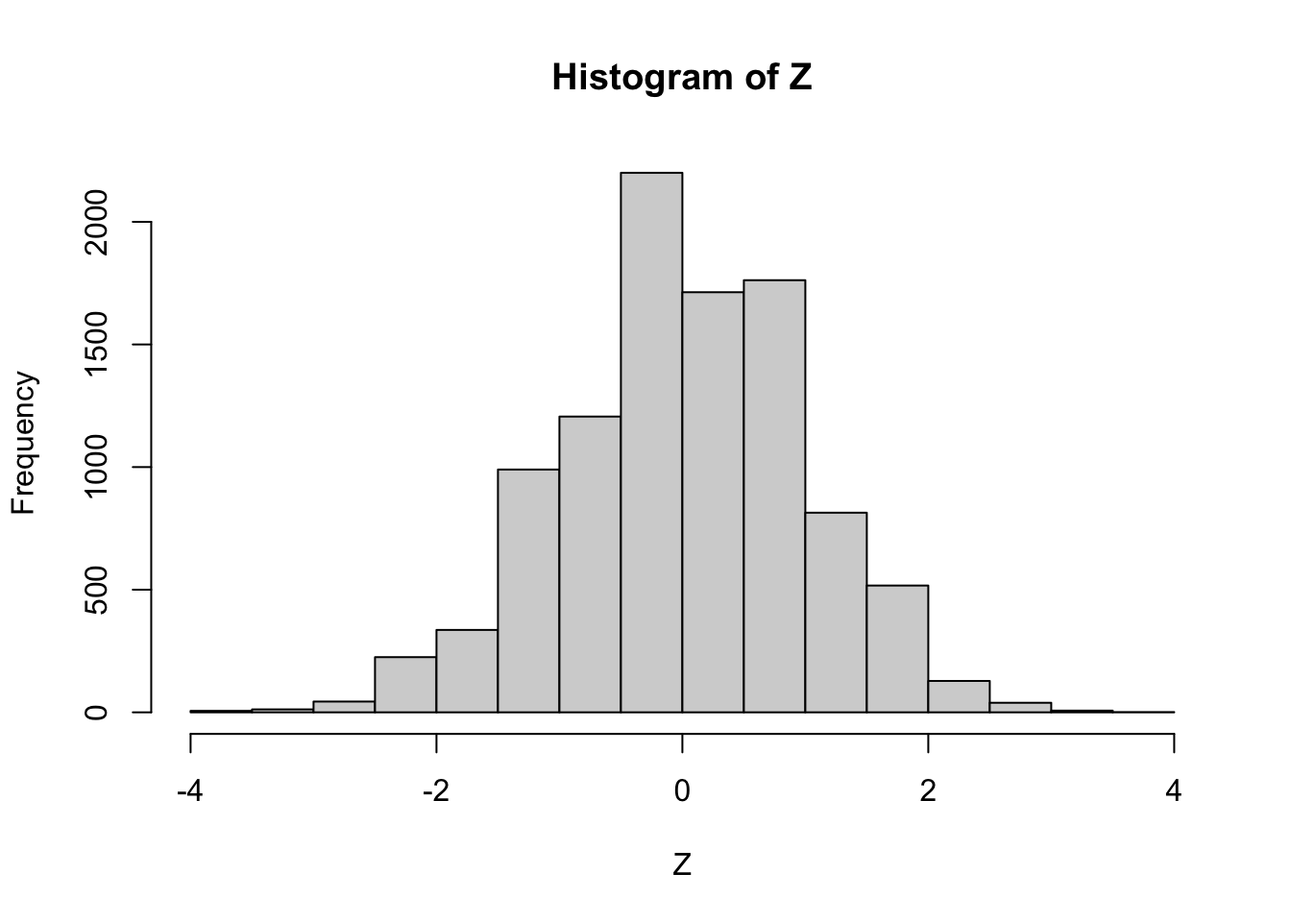
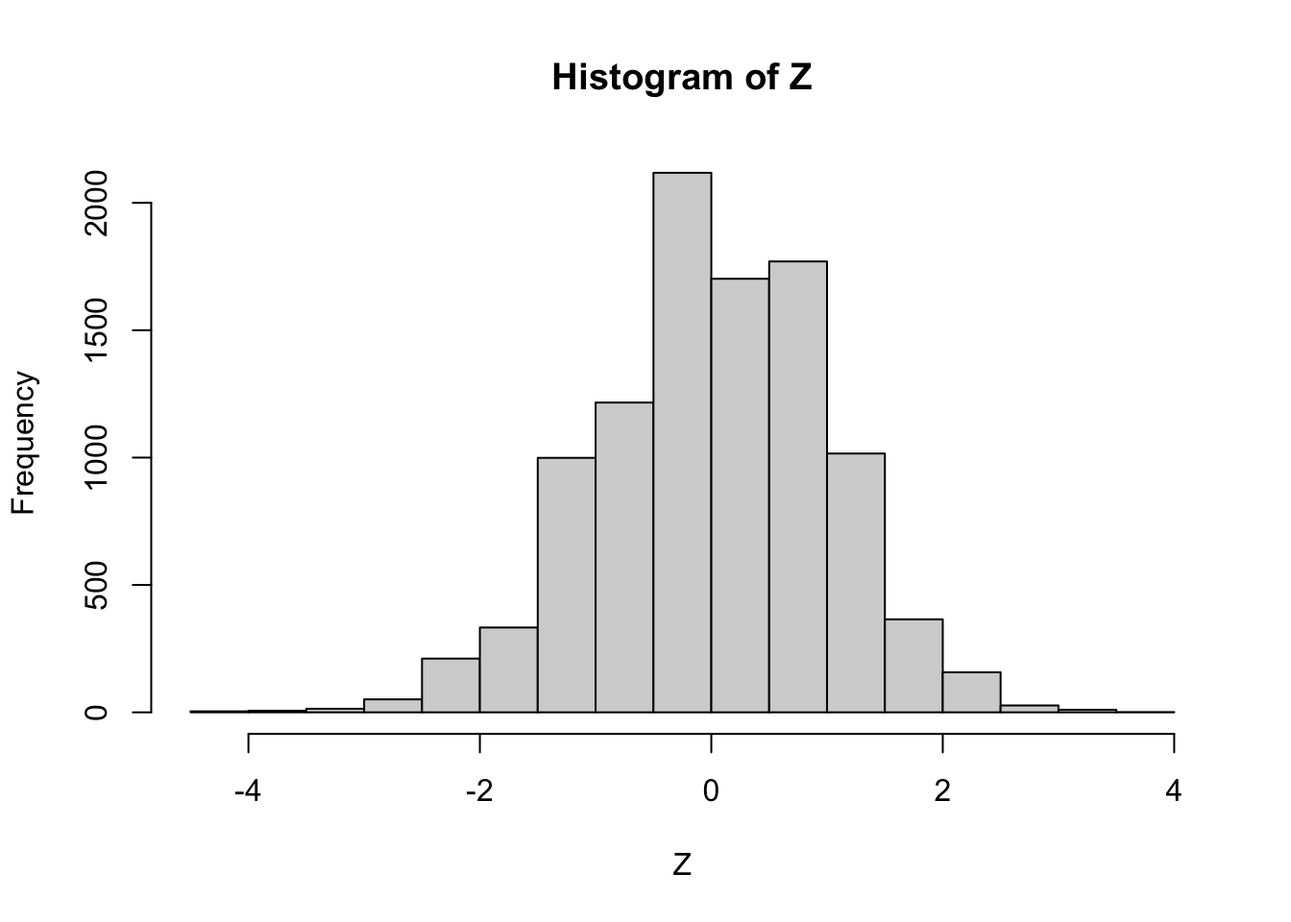
pset5

diff --git a/p5/pset-05-prob.html b/p5/pset-05-prob.html
@@ -181,14 +181,10 @@ window.Quarto = {
 <span id="cb4-7"><a href="#cb4-7" aria-hidden="true" tabindex="-1"></a>      same <span class="ot">=</span> same <span class="sc">+</span> <span class="dv">1</span></span>
 <span id="cb4-8"><a href="#cb4-8" aria-hidden="true" tabindex="-1"></a>    }</span>
 <span id="cb4-9"><a href="#cb4-9" aria-hidden="true" tabindex="-1"></a>  }</span>
-<span id="cb4-10"><a href="#cb4-10" aria-hidden="true" tabindex="-1"></a>  </span>
-<span id="cb4-11"><a href="#cb4-11" aria-hidden="true" tabindex="-1"></a>  chance <span class="ot">=</span> same<span class="sc">/</span>B</span>
-<span id="cb4-12"><a href="#cb4-12" aria-hidden="true" tabindex="-1"></a>  </span>
-<span id="cb4-13"><a href="#cb4-13" aria-hidden="true" tabindex="-1"></a>  <span class="fu">return</span>(chance)</span>
-<span id="cb4-14"><a href="#cb4-14" aria-hidden="true" tabindex="-1"></a>} </span>
-<span id="cb4-15"><a href="#cb4-15" aria-hidden="true" tabindex="-1"></a></span>
-<span id="cb4-16"><a href="#cb4-16" aria-hidden="true" tabindex="-1"></a></span>
-<span id="cb4-17"><a href="#cb4-17" aria-hidden="true" tabindex="-1"></a><span class="fu">compute_prob</span>(<span class="dv">22</span>)</span></code><button title="Copy to Clipboard" class="code-copy-button"><i class="bi"></i></button></pre></div>
+<span id="cb4-10"><a href="#cb4-10" aria-hidden="true" tabindex="-1"></a>  chance <span class="ot">=</span> same<span class="sc">/</span>B</span>
+<span id="cb4-11"><a href="#cb4-11" aria-hidden="true" tabindex="-1"></a>  <span class="fu">return</span>(chance)</span>
+<span id="cb4-12"><a href="#cb4-12" aria-hidden="true" tabindex="-1"></a>} </span>
+<span id="cb4-13"><a href="#cb4-13" aria-hidden="true" tabindex="-1"></a><span class="fu">compute_prob</span>(<span class="dv">22</span>)</span></code><button title="Copy to Clipboard" class="code-copy-button"><i class="bi"></i></button></pre></div>
 <div class="cell-output cell-output-stdout">
 <pre><code>[1] 0.513</code></pre>
 </div>
@@ -239,25 +235,21 @@ window.Quarto = {
 </figure>
 </div>
 </div>
-<div class="sourceCode cell-code" id="cb9"><pre class="sourceCode r code-with-copy"><code class="sourceCode r"><span id="cb9-1"><a href="#cb9-1" aria-hidden="true" tabindex="-1"></a><span class="co"># exact_prob &lt;- function(n){</span></span>
-<span id="cb9-2"><a href="#cb9-2" aria-hidden="true" tabindex="-1"></a><span class="co">#   prob_unique &lt;- seq(365, 365 - n + 1)/365 </span></span>
-<span id="cb9-3"><a href="#cb9-3" aria-hidden="true" tabindex="-1"></a><span class="co">#   1 - prod( prob_unique)</span></span>
-<span id="cb9-4"><a href="#cb9-4" aria-hidden="true" tabindex="-1"></a><span class="co"># }</span></span></code><button title="Copy to Clipboard" class="code-copy-button"><i class="bi"></i></button></pre></div>
 </div>
 <ol start="5" type="1">
 <li>Note that the points don’t quite match the red line. This is because our Monte Carlos simulation was based on only 1,000 iterations. Repeat exercise 2 but for <code>n = 23</code> and try <code>B &lt;- seq(10, 250, 5)^2</code> number iterations. Plot the estimated probability against <code>sqrt(b)</code>. Add horizontal lines around the exact probability <span class="math inline">\(\pm\)</span> 0.005. Note this could take several seconds to run. Set the seed to 1998.</li>
 </ol>
 <div class="cell">
-<div class="sourceCode cell-code" id="cb10"><pre class="sourceCode r code-with-copy"><code class="sourceCode r"><span id="cb10-1"><a href="#cb10-1" aria-hidden="true" tabindex="-1"></a><span class="fu">set.seed</span>(<span class="dv">1998</span>)</span>
-<span id="cb10-2"><a href="#cb10-2" aria-hidden="true" tabindex="-1"></a>B <span class="ot">&lt;-</span> <span class="fu">seq</span>(<span class="dv">10</span>, <span class="dv">250</span>, <span class="dv">5</span>)<span class="sc">^</span><span class="dv">2</span></span>
-<span id="cb10-3"><a href="#cb10-3" aria-hidden="true" tabindex="-1"></a></span>
-<span id="cb10-4"><a href="#cb10-4" aria-hidden="true" tabindex="-1"></a>compute_prob <span class="ot">&lt;-</span> <span class="cf">function</span>(B, <span class="at">n =</span> <span class="dv">23</span>){</span>
-<span id="cb10-5"><a href="#cb10-5" aria-hidden="true" tabindex="-1"></a>  same_day <span class="ot">&lt;-</span> <span class="fu">replicate</span>(B, <span class="fu">same_birthday</span>(n))</span>
-<span id="cb10-6"><a href="#cb10-6" aria-hidden="true" tabindex="-1"></a>  <span class="fu">mean</span>(same_day)</span>
-<span id="cb10-7"><a href="#cb10-7" aria-hidden="true" tabindex="-1"></a>}</span>
-<span id="cb10-8"><a href="#cb10-8" aria-hidden="true" tabindex="-1"></a>prob <span class="ot">&lt;-</span> <span class="fu">sapply</span>(B, compute_prob)</span>
-<span id="cb10-9"><a href="#cb10-9" aria-hidden="true" tabindex="-1"></a><span class="fu">plot</span>(<span class="fu">sqrt</span>(B), prob)</span>
-<span id="cb10-10"><a href="#cb10-10" aria-hidden="true" tabindex="-1"></a><span class="fu">abline</span>(<span class="at">h =</span> <span class="fu">mean</span>(prob) <span class="sc">+</span> <span class="fu">c</span>(<span class="sc">-</span><span class="fl">0.005</span>, <span class="fl">0.005</span>), <span class="at">col =</span> <span class="st">"red"</span>)</span></code><button title="Copy to Clipboard" class="code-copy-button"><i class="bi"></i></button></pre></div>
+<div class="sourceCode cell-code" id="cb9"><pre class="sourceCode r code-with-copy"><code class="sourceCode r"><span id="cb9-1"><a href="#cb9-1" aria-hidden="true" tabindex="-1"></a><span class="fu">set.seed</span>(<span class="dv">1998</span>)</span>
+<span id="cb9-2"><a href="#cb9-2" aria-hidden="true" tabindex="-1"></a>B <span class="ot">&lt;-</span> <span class="fu">seq</span>(<span class="dv">10</span>, <span class="dv">250</span>, <span class="dv">5</span>)<span class="sc">^</span><span class="dv">2</span></span>
+<span id="cb9-3"><a href="#cb9-3" aria-hidden="true" tabindex="-1"></a></span>
+<span id="cb9-4"><a href="#cb9-4" aria-hidden="true" tabindex="-1"></a>compute_prob_val <span class="ot">&lt;-</span> <span class="cf">function</span>(B, <span class="at">n =</span> <span class="dv">23</span>){</span>
+<span id="cb9-5"><a href="#cb9-5" aria-hidden="true" tabindex="-1"></a>  same_day <span class="ot">&lt;-</span> <span class="fu">replicate</span>(B, <span class="fu">same_birthday</span>(n))</span>
+<span id="cb9-6"><a href="#cb9-6" aria-hidden="true" tabindex="-1"></a>  <span class="fu">mean</span>(same_day)</span>
+<span id="cb9-7"><a href="#cb9-7" aria-hidden="true" tabindex="-1"></a>}</span>
+<span id="cb9-8"><a href="#cb9-8" aria-hidden="true" tabindex="-1"></a>prob <span class="ot">&lt;-</span> <span class="fu">sapply</span>(B, compute_prob_val)</span>
+<span id="cb9-9"><a href="#cb9-9" aria-hidden="true" tabindex="-1"></a><span class="fu">plot</span>(<span class="fu">sqrt</span>(B), prob)</span>
+<span id="cb9-10"><a href="#cb9-10" aria-hidden="true" tabindex="-1"></a><span class="fu">abline</span>(<span class="at">h =</span> <span class="fu">mean</span>(prob) <span class="sc">+</span> <span class="fu">c</span>(<span class="sc">-</span><span class="fl">0.005</span>, <span class="fl">0.005</span>), <span class="at">col =</span> <span class="st">"red"</span>)</span></code><button title="Copy to Clipboard" class="code-copy-button"><i class="bi"></i></button></pre></div>
 <div class="cell-output-display">
 <div>
 <figure class="figure">
@@ -267,76 +259,45 @@ window.Quarto = {
 </div>
 </div>
 <p>Describe when it starts to stabilize in that the estimates are within 0.005 for the exact probability.</p>
-<p>In this plot, we can see that the values start to stabilize at around sqrt(B) at 150.</p>
+<p>In this plot, we can see that the values start to stabilize at around sqrt(B) at 220, and we can use 45000 to be our result for question six.</p>
 <ol start="6" type="1">
 <li>Repeat exercise 4 but use the results of exercise 5 to select the number of iterations so that the points practically fall on the red curve.</li>
 </ol>
 <p>Hint: If the number of iterations you chose is too large, you will achieve the correct plot but your document might not render in less than five minutes.</p>
 <div class="cell">
-<div class="sourceCode cell-code" id="cb11"><pre class="sourceCode r code-with-copy"><code class="sourceCode r"><span id="cb11-1"><a href="#cb11-1" aria-hidden="true" tabindex="-1"></a><span class="co"># library(tidyverse)</span></span>
-<span id="cb11-2"><a href="#cb11-2" aria-hidden="true" tabindex="-1"></a><span class="co"># set.seed(1998)</span></span>
-<span id="cb11-3"><a href="#cb11-3" aria-hidden="true" tabindex="-1"></a><span class="co"># n_6 &lt;- seq(1, 50)</span></span>
-<span id="cb11-4"><a href="#cb11-4" aria-hidden="true" tabindex="-1"></a><span class="co"># B &lt;- seq(10, 250, 5)^2</span></span>
-<span id="cb11-5"><a href="#cb11-5" aria-hidden="true" tabindex="-1"></a><span class="co"># </span></span>
-<span id="cb11-6"><a href="#cb11-6" aria-hidden="true" tabindex="-1"></a><span class="co"># exact_prob &lt;- function(n_6){ </span></span>
-<span id="cb11-7"><a href="#cb11-7" aria-hidden="true" tabindex="-1"></a><span class="co">#  prob = prod(364:(365 - n_6 +1)/ 365)</span></span>
-<span id="cb11-8"><a href="#cb11-8" aria-hidden="true" tabindex="-1"></a><span class="co">#  prob = 1- prob</span></span>
-<span id="cb11-9"><a href="#cb11-9" aria-hidden="true" tabindex="-1"></a><span class="co">#  return(prob)</span></span>
-<span id="cb11-10"><a href="#cb11-10" aria-hidden="true" tabindex="-1"></a><span class="co"># }</span></span>
-<span id="cb11-11"><a href="#cb11-11" aria-hidden="true" tabindex="-1"></a><span class="co"># </span></span>
-<span id="cb11-12"><a href="#cb11-12" aria-hidden="true" tabindex="-1"></a><span class="co"># compute_prob &lt;- function(B, n = 23){</span></span>
-<span id="cb11-13"><a href="#cb11-13" aria-hidden="true" tabindex="-1"></a><span class="co">#   same_day &lt;- replicate(B, same_birthday(n))</span></span>
-<span id="cb11-14"><a href="#cb11-14" aria-hidden="true" tabindex="-1"></a><span class="co">#   mean(same_day)</span></span>
-<span id="cb11-15"><a href="#cb11-15" aria-hidden="true" tabindex="-1"></a><span class="co"># }</span></span>
-<span id="cb11-16"><a href="#cb11-16" aria-hidden="true" tabindex="-1"></a><span class="co"># </span></span>
-<span id="cb11-17"><a href="#cb11-17" aria-hidden="true" tabindex="-1"></a><span class="co"># prob &lt;- sapply(B, compute_prob)</span></span>
-<span id="cb11-18"><a href="#cb11-18" aria-hidden="true" tabindex="-1"></a><span class="co"># </span></span>
-<span id="cb11-19"><a href="#cb11-19" aria-hidden="true" tabindex="-1"></a><span class="co"># exact_prob &lt;- sapply(n_6, exact_prob)</span></span>
-<span id="cb11-20"><a href="#cb11-20" aria-hidden="true" tabindex="-1"></a><span class="co"># </span></span>
-<span id="cb11-21"><a href="#cb11-21" aria-hidden="true" tabindex="-1"></a><span class="co"># </span></span>
-<span id="cb11-22"><a href="#cb11-22" aria-hidden="true" tabindex="-1"></a><span class="co"># plot(sqrt(B), prob)</span></span>
-<span id="cb11-23"><a href="#cb11-23" aria-hidden="true" tabindex="-1"></a><span class="co"># lines(n_6, exact_prob, col = "red")</span></span>
-<span id="cb11-24"><a href="#cb11-24" aria-hidden="true" tabindex="-1"></a></span>
-<span id="cb11-25"><a href="#cb11-25" aria-hidden="true" tabindex="-1"></a></span>
-<span id="cb11-26"><a href="#cb11-26" aria-hidden="true" tabindex="-1"></a></span>
-<span id="cb11-27"><a href="#cb11-27" aria-hidden="true" tabindex="-1"></a><span class="fu">library</span>(tidyverse)</span>
-<span id="cb11-28"><a href="#cb11-28" aria-hidden="true" tabindex="-1"></a></span>
-<span id="cb11-29"><a href="#cb11-29" aria-hidden="true" tabindex="-1"></a><span class="fu">set.seed</span>(<span class="dv">1998</span>)</span>
-<span id="cb11-30"><a href="#cb11-30" aria-hidden="true" tabindex="-1"></a></span>
-<span id="cb11-31"><a href="#cb11-31" aria-hidden="true" tabindex="-1"></a><span class="co"># Define the range of n</span></span>
-<span id="cb11-32"><a href="#cb11-32" aria-hidden="true" tabindex="-1"></a>n <span class="ot">&lt;-</span> <span class="fu">seq</span>(<span class="dv">1</span>, <span class="dv">50</span>)</span>
-<span id="cb11-33"><a href="#cb11-33" aria-hidden="true" tabindex="-1"></a></span>
-<span id="cb11-34"><a href="#cb11-34" aria-hidden="true" tabindex="-1"></a><span class="co"># Exact probability function</span></span>
-<span id="cb11-35"><a href="#cb11-35" aria-hidden="true" tabindex="-1"></a>exact_prob <span class="ot">&lt;-</span> <span class="cf">function</span>(n) { </span>
-<span id="cb11-36"><a href="#cb11-36" aria-hidden="true" tabindex="-1"></a>  prob <span class="ot">=</span> <span class="fu">prod</span>(<span class="dv">364</span><span class="sc">:</span>(<span class="dv">365</span> <span class="sc">-</span> n <span class="sc">+</span> <span class="dv">1</span>) <span class="sc">/</span> <span class="dv">365</span>)</span>
-<span id="cb11-37"><a href="#cb11-37" aria-hidden="true" tabindex="-1"></a>  prob <span class="ot">=</span> <span class="dv">1</span> <span class="sc">-</span> prob</span>
-<span id="cb11-38"><a href="#cb11-38" aria-hidden="true" tabindex="-1"></a>  <span class="fu">return</span>(prob)</span>
-<span id="cb11-39"><a href="#cb11-39" aria-hidden="true" tabindex="-1"></a>}</span>
-<span id="cb11-40"><a href="#cb11-40" aria-hidden="true" tabindex="-1"></a></span>
-<span id="cb11-41"><a href="#cb11-41" aria-hidden="true" tabindex="-1"></a>exact_prob <span class="ot">&lt;-</span> <span class="fu">sapply</span>(n, exact_prob)</span>
-<span id="cb11-42"><a href="#cb11-42" aria-hidden="true" tabindex="-1"></a></span>
-<span id="cb11-43"><a href="#cb11-43" aria-hidden="true" tabindex="-1"></a><span class="co"># Exercise 5: Find stable B</span></span>
-<span id="cb11-44"><a href="#cb11-44" aria-hidden="true" tabindex="-1"></a>B_vals <span class="ot">&lt;-</span> <span class="fu">seq</span>(<span class="dv">10</span>, <span class="dv">250</span>, <span class="dv">5</span>)<span class="sc">^</span><span class="dv">2</span></span>
-<span id="cb11-45"><a href="#cb11-45" aria-hidden="true" tabindex="-1"></a>compute_prob <span class="ot">&lt;-</span> <span class="cf">function</span>(B, <span class="at">n =</span> <span class="dv">23</span>) {</span>
-<span id="cb11-46"><a href="#cb11-46" aria-hidden="true" tabindex="-1"></a>  same_day <span class="ot">&lt;-</span> <span class="fu">replicate</span>(B, <span class="fu">same_birthday</span>(n))</span>
-<span id="cb11-47"><a href="#cb11-47" aria-hidden="true" tabindex="-1"></a>  <span class="fu">mean</span>(same_day)</span>
-<span id="cb11-48"><a href="#cb11-48" aria-hidden="true" tabindex="-1"></a>}</span>
-<span id="cb11-49"><a href="#cb11-49" aria-hidden="true" tabindex="-1"></a></span>
-<span id="cb11-50"><a href="#cb11-50" aria-hidden="true" tabindex="-1"></a>prob <span class="ot">&lt;-</span> <span class="fu">sapply</span>(B_vals, compute_prob)</span>
-<span id="cb11-51"><a href="#cb11-51" aria-hidden="true" tabindex="-1"></a></span>
-<span id="cb11-52"><a href="#cb11-52" aria-hidden="true" tabindex="-1"></a><span class="co"># Find the smallest B where probability is stable within ±0.005</span></span>
-<span id="cb11-53"><a href="#cb11-53" aria-hidden="true" tabindex="-1"></a>stable_B <span class="ot">&lt;-</span> B_vals[<span class="fu">which.max</span>(prob <span class="sc">&gt;=</span> (<span class="fu">mean</span>(prob) <span class="sc">-</span> <span class="fl">0.005</span>) <span class="sc">&amp;</span> prob <span class="sc">&lt;=</span> (<span class="fu">mean</span>(prob) <span class="sc">+</span> <span class="fl">0.005</span>))]</span>
-<span id="cb11-54"><a href="#cb11-54" aria-hidden="true" tabindex="-1"></a></span>
-<span id="cb11-55"><a href="#cb11-55" aria-hidden="true" tabindex="-1"></a><span class="co"># Compute Monte Carlo probability using stable B</span></span>
-<span id="cb11-56"><a href="#cb11-56" aria-hidden="true" tabindex="-1"></a>compute_prob_n <span class="ot">&lt;-</span> <span class="cf">function</span>(n, <span class="at">B =</span> stable_B) {</span>
-<span id="cb11-57"><a href="#cb11-57" aria-hidden="true" tabindex="-1"></a>  <span class="fu">mean</span>(<span class="fu">replicate</span>(B, <span class="fu">same_birthday</span>(n)))</span>
-<span id="cb11-58"><a href="#cb11-58" aria-hidden="true" tabindex="-1"></a>}</span>
-<span id="cb11-59"><a href="#cb11-59" aria-hidden="true" tabindex="-1"></a></span>
-<span id="cb11-60"><a href="#cb11-60" aria-hidden="true" tabindex="-1"></a>chance <span class="ot">&lt;-</span> <span class="fu">sapply</span>(n, compute_prob_n)</span>
-<span id="cb11-61"><a href="#cb11-61" aria-hidden="true" tabindex="-1"></a></span>
-<span id="cb11-62"><a href="#cb11-62" aria-hidden="true" tabindex="-1"></a><span class="co"># Plot results</span></span>
-<span id="cb11-63"><a href="#cb11-63" aria-hidden="true" tabindex="-1"></a><span class="fu">plot</span>(n, chance)</span>
-<span id="cb11-64"><a href="#cb11-64" aria-hidden="true" tabindex="-1"></a><span class="fu">lines</span>(n, exact_prob, <span class="at">col =</span> <span class="st">"red"</span>)</span></code><button title="Copy to Clipboard" class="code-copy-button"><i class="bi"></i></button></pre></div>
+<div class="sourceCode cell-code" id="cb10"><pre class="sourceCode r code-with-copy"><code class="sourceCode r"><span id="cb10-1"><a href="#cb10-1" aria-hidden="true" tabindex="-1"></a><span class="fu">library</span>(tidyverse)</span>
+<span id="cb10-2"><a href="#cb10-2" aria-hidden="true" tabindex="-1"></a>n <span class="ot">&lt;-</span> <span class="fu">seq</span>(<span class="dv">1</span>, <span class="dv">60</span>)</span>
+<span id="cb10-3"><a href="#cb10-3" aria-hidden="true" tabindex="-1"></a>B <span class="ot">&lt;-</span> <span class="dv">45000</span></span>
+<span id="cb10-4"><a href="#cb10-4" aria-hidden="true" tabindex="-1"></a></span>
+<span id="cb10-5"><a href="#cb10-5" aria-hidden="true" tabindex="-1"></a>exact_prob <span class="ot">&lt;-</span> <span class="cf">function</span>(n) {</span>
+<span id="cb10-6"><a href="#cb10-6" aria-hidden="true" tabindex="-1"></a>  prob <span class="ot">=</span> <span class="fu">prod</span>((<span class="dv">364</span><span class="sc">:</span>(<span class="dv">365</span> <span class="sc">-</span> n <span class="sc">+</span> <span class="dv">1</span>)) <span class="sc">/</span> <span class="dv">365</span>)</span>
+<span id="cb10-7"><a href="#cb10-7" aria-hidden="true" tabindex="-1"></a>  <span class="fu">return</span>(<span class="dv">1</span> <span class="sc">-</span> prob)</span>
+<span id="cb10-8"><a href="#cb10-8" aria-hidden="true" tabindex="-1"></a>}</span>
+<span id="cb10-9"><a href="#cb10-9" aria-hidden="true" tabindex="-1"></a></span>
+<span id="cb10-10"><a href="#cb10-10" aria-hidden="true" tabindex="-1"></a>compute_prob <span class="ot">&lt;-</span> <span class="cf">function</span>(n_values, <span class="at">B =</span> <span class="dv">45000</span>) {</span>
+<span id="cb10-11"><a href="#cb10-11" aria-hidden="true" tabindex="-1"></a>  results <span class="ot">&lt;-</span> <span class="fu">numeric</span>(<span class="fu">length</span>(n_values))</span>
+<span id="cb10-12"><a href="#cb10-12" aria-hidden="true" tabindex="-1"></a>  </span>
+<span id="cb10-13"><a href="#cb10-13" aria-hidden="true" tabindex="-1"></a>  <span class="cf">for</span> (i <span class="cf">in</span> <span class="fu">seq_along</span>(n_values)) {</span>
+<span id="cb10-14"><a href="#cb10-14" aria-hidden="true" tabindex="-1"></a>    n <span class="ot">&lt;-</span> n_values[i]</span>
+<span id="cb10-15"><a href="#cb10-15" aria-hidden="true" tabindex="-1"></a>    same <span class="ot">=</span> <span class="dv">0</span></span>
+<span id="cb10-16"><a href="#cb10-16" aria-hidden="true" tabindex="-1"></a>    </span>
+<span id="cb10-17"><a href="#cb10-17" aria-hidden="true" tabindex="-1"></a>    <span class="cf">for</span> (j <span class="cf">in</span> <span class="dv">1</span><span class="sc">:</span>B) {</span>
+<span id="cb10-18"><a href="#cb10-18" aria-hidden="true" tabindex="-1"></a>      <span class="cf">if</span> (<span class="fu">same_birthday</span>(n)) {</span>
+<span id="cb10-19"><a href="#cb10-19" aria-hidden="true" tabindex="-1"></a>        same <span class="ot">=</span> same <span class="sc">+</span> <span class="dv">1</span></span>
+<span id="cb10-20"><a href="#cb10-20" aria-hidden="true" tabindex="-1"></a>      }</span>
+<span id="cb10-21"><a href="#cb10-21" aria-hidden="true" tabindex="-1"></a>    }</span>
+<span id="cb10-22"><a href="#cb10-22" aria-hidden="true" tabindex="-1"></a>    results[i] <span class="ot">&lt;-</span> same <span class="sc">/</span> B  </span>
+<span id="cb10-23"><a href="#cb10-23" aria-hidden="true" tabindex="-1"></a>  }</span>
+<span id="cb10-24"><a href="#cb10-24" aria-hidden="true" tabindex="-1"></a>  <span class="fu">return</span>(results)</span>
+<span id="cb10-25"><a href="#cb10-25" aria-hidden="true" tabindex="-1"></a>}</span>
+<span id="cb10-26"><a href="#cb10-26" aria-hidden="true" tabindex="-1"></a></span>
+<span id="cb10-27"><a href="#cb10-27" aria-hidden="true" tabindex="-1"></a>prob_result <span class="ot">=</span> <span class="fu">compute_prob</span>(n,B)</span>
+<span id="cb10-28"><a href="#cb10-28" aria-hidden="true" tabindex="-1"></a></span>
+<span id="cb10-29"><a href="#cb10-29" aria-hidden="true" tabindex="-1"></a>exact_prob_val <span class="ot">&lt;-</span> <span class="fu">sapply</span>(n, exact_prob)</span>
+<span id="cb10-30"><a href="#cb10-30" aria-hidden="true" tabindex="-1"></a><span class="co"># chance &lt;- sapply(n, prob_result)</span></span>
+<span id="cb10-31"><a href="#cb10-31" aria-hidden="true" tabindex="-1"></a></span>
+<span id="cb10-32"><a href="#cb10-32" aria-hidden="true" tabindex="-1"></a><span class="fu">plot</span>(n, prob_result, <span class="at">type =</span> <span class="st">"p"</span>, <span class="at">col =</span> <span class="st">"blue"</span>)</span>
+<span id="cb10-33"><a href="#cb10-33" aria-hidden="true" tabindex="-1"></a><span class="fu">lines</span>(n, exact_prob_val, <span class="at">col =</span> <span class="st">"red"</span>)</span></code><button title="Copy to Clipboard" class="code-copy-button"><i class="bi"></i></button></pre></div>
 <div class="cell-output-display">
 <div>
 <figure class="figure">
@@ -351,17 +312,17 @@ window.Quarto = {
 \]</span></p>
 <p>7b. The payout for winning on green is $17 dollars. This means that if you bet a dollar and it lands on green, you get $17. If it lands on red or black you lose your dollar. Create a sampling model using <code>sample</code> to simulate the random variable <span class="math inline">\(X\)</span> for the Casino’s winnings when one person bets on green.</p>
 <div class="cell">
-<div class="sourceCode cell-code" id="cb12"><pre class="sourceCode r code-with-copy"><code class="sourceCode r"><span id="cb12-1"><a href="#cb12-1" aria-hidden="true" tabindex="-1"></a><span class="fu">set.seed</span>(<span class="dv">1998</span>)</span>
-<span id="cb12-2"><a href="#cb12-2" aria-hidden="true" tabindex="-1"></a></span>
-<span id="cb12-3"><a href="#cb12-3" aria-hidden="true" tabindex="-1"></a>n <span class="ot">&lt;-</span> <span class="dv">1</span></span>
-<span id="cb12-4"><a href="#cb12-4" aria-hidden="true" tabindex="-1"></a></span>
-<span id="cb12-5"><a href="#cb12-5" aria-hidden="true" tabindex="-1"></a>outcomes <span class="ot">&lt;-</span> <span class="fu">c</span>(<span class="dv">1</span>, <span class="sc">-</span><span class="dv">17</span>)  </span>
-<span id="cb12-6"><a href="#cb12-6" aria-hidden="true" tabindex="-1"></a></span>
-<span id="cb12-7"><a href="#cb12-7" aria-hidden="true" tabindex="-1"></a>probabilities <span class="ot">&lt;-</span> <span class="fu">c</span>(<span class="dv">36</span><span class="sc">/</span><span class="dv">38</span>, <span class="dv">2</span><span class="sc">/</span><span class="dv">38</span>)  </span>
-<span id="cb12-8"><a href="#cb12-8" aria-hidden="true" tabindex="-1"></a></span>
-<span id="cb12-9"><a href="#cb12-9" aria-hidden="true" tabindex="-1"></a>X <span class="ot">&lt;-</span> <span class="fu">sample</span>(outcomes, <span class="at">size =</span> n, <span class="at">replace =</span> <span class="cn">TRUE</span>, <span class="at">prob =</span> probabilities)</span>
-<span id="cb12-10"><a href="#cb12-10" aria-hidden="true" tabindex="-1"></a></span>
-<span id="cb12-11"><a href="#cb12-11" aria-hidden="true" tabindex="-1"></a><span class="fu">mean</span>(X)</span></code><button title="Copy to Clipboard" class="code-copy-button"><i class="bi"></i></button></pre></div>
+<div class="sourceCode cell-code" id="cb11"><pre class="sourceCode r code-with-copy"><code class="sourceCode r"><span id="cb11-1"><a href="#cb11-1" aria-hidden="true" tabindex="-1"></a><span class="fu">set.seed</span>(<span class="dv">1998</span>)</span>
+<span id="cb11-2"><a href="#cb11-2" aria-hidden="true" tabindex="-1"></a></span>
+<span id="cb11-3"><a href="#cb11-3" aria-hidden="true" tabindex="-1"></a>n <span class="ot">&lt;-</span> <span class="dv">1</span></span>
+<span id="cb11-4"><a href="#cb11-4" aria-hidden="true" tabindex="-1"></a></span>
+<span id="cb11-5"><a href="#cb11-5" aria-hidden="true" tabindex="-1"></a>outcomes <span class="ot">&lt;-</span> <span class="fu">c</span>(<span class="dv">1</span>, <span class="sc">-</span><span class="dv">17</span>)  </span>
+<span id="cb11-6"><a href="#cb11-6" aria-hidden="true" tabindex="-1"></a></span>
+<span id="cb11-7"><a href="#cb11-7" aria-hidden="true" tabindex="-1"></a>probabilities <span class="ot">&lt;-</span> <span class="fu">c</span>(<span class="dv">36</span><span class="sc">/</span><span class="dv">38</span>, <span class="dv">2</span><span class="sc">/</span><span class="dv">38</span>)  </span>
+<span id="cb11-8"><a href="#cb11-8" aria-hidden="true" tabindex="-1"></a></span>
+<span id="cb11-9"><a href="#cb11-9" aria-hidden="true" tabindex="-1"></a>X <span class="ot">&lt;-</span> <span class="fu">sample</span>(outcomes, <span class="at">size =</span> n, <span class="at">replace =</span> <span class="cn">TRUE</span>, <span class="at">prob =</span> probabilities)</span>
+<span id="cb11-10"><a href="#cb11-10" aria-hidden="true" tabindex="-1"></a></span>
+<span id="cb11-11"><a href="#cb11-11" aria-hidden="true" tabindex="-1"></a><span class="fu">mean</span>(X)</span></code><button title="Copy to Clipboard" class="code-copy-button"><i class="bi"></i></button></pre></div>
 <div class="cell-output cell-output-stdout">
 <pre><code>[1] 1</code></pre>
 </div>
@@ -370,15 +331,16 @@ window.Quarto = {
 <li>Now create a random variable <span class="math inline">\(S\)</span> of the Casino’s total winnings if $n = $1,000 people bet on green. Use Monte Carlo simulation to estimate the probability that the Casino loses money.</li>
 </ol>
 <div class="cell">
-<div class="sourceCode cell-code" id="cb14"><pre class="sourceCode r code-with-copy"><code class="sourceCode r"><span id="cb14-1"><a href="#cb14-1" aria-hidden="true" tabindex="-1"></a><span class="fu">set.seed</span>(<span class="dv">1998</span>)</span>
-<span id="cb14-2"><a href="#cb14-2" aria-hidden="true" tabindex="-1"></a></span>
-<span id="cb14-3"><a href="#cb14-3" aria-hidden="true" tabindex="-1"></a>simulations <span class="ot">&lt;-</span> <span class="dv">1000</span></span>
-<span id="cb14-4"><a href="#cb14-4" aria-hidden="true" tabindex="-1"></a></span>
-<span id="cb14-5"><a href="#cb14-5" aria-hidden="true" tabindex="-1"></a>S <span class="ot">&lt;-</span> <span class="fu">replicate</span>(simulations, <span class="fu">sum</span>(<span class="fu">sample</span>(outcomes, <span class="at">size =</span> n, <span class="at">replace =</span> <span class="cn">TRUE</span>, <span class="at">prob =</span> probabilities)))</span>
-<span id="cb14-6"><a href="#cb14-6" aria-hidden="true" tabindex="-1"></a></span>
-<span id="cb14-7"><a href="#cb14-7" aria-hidden="true" tabindex="-1"></a><span class="fu">mean</span>(S <span class="sc">&lt;</span> <span class="dv">0</span>)</span></code><button title="Copy to Clipboard" class="code-copy-button"><i class="bi"></i></button></pre></div>
+<div class="sourceCode cell-code" id="cb13"><pre class="sourceCode r code-with-copy"><code class="sourceCode r"><span id="cb13-1"><a href="#cb13-1" aria-hidden="true" tabindex="-1"></a><span class="fu">set.seed</span>(<span class="dv">2025</span>)</span>
+<span id="cb13-2"><a href="#cb13-2" aria-hidden="true" tabindex="-1"></a>n <span class="ot">&lt;-</span> <span class="dv">1000</span></span>
+<span id="cb13-3"><a href="#cb13-3" aria-hidden="true" tabindex="-1"></a></span>
+<span id="cb13-4"><a href="#cb13-4" aria-hidden="true" tabindex="-1"></a>simulations <span class="ot">&lt;-</span> <span class="dv">10000</span></span>
+<span id="cb13-5"><a href="#cb13-5" aria-hidden="true" tabindex="-1"></a></span>
+<span id="cb13-6"><a href="#cb13-6" aria-hidden="true" tabindex="-1"></a>S <span class="ot">&lt;-</span> <span class="fu">replicate</span>(simulations, <span class="fu">sum</span>(<span class="fu">sample</span>(outcomes, <span class="at">size =</span> n, <span class="at">replace =</span> <span class="cn">TRUE</span>, <span class="at">prob =</span> probabilities)))</span>
+<span id="cb13-7"><a href="#cb13-7" aria-hidden="true" tabindex="-1"></a></span>
+<span id="cb13-8"><a href="#cb13-8" aria-hidden="true" tabindex="-1"></a><span class="fu">mean</span>(S <span class="sc">&lt;</span> <span class="dv">0</span>)</span></code><button title="Copy to Clipboard" class="code-copy-button"><i class="bi"></i></button></pre></div>
 <div class="cell-output cell-output-stdout">
-<pre><code>[1] 0.06</code></pre>
+<pre><code>[1] 0.3338</code></pre>
 </div>
 </div>
 <ol start="9" type="1">
@@ -400,22 +362,12 @@ SE[X] = |(-17-1)| \times (\sqrt \frac{36}{38} \times \sqrt \frac{2}{38}) \approx
 E[S] = 1000 \times E[X] \approx 52.632
 \]</span></p>
 <div class="cell">
-<div class="sourceCode cell-code" id="cb16"><pre class="sourceCode r code-with-copy"><code class="sourceCode r"><span id="cb16-1"><a href="#cb16-1" aria-hidden="true" tabindex="-1"></a><span class="fu">set.seed</span>(<span class="dv">1998</span>)</span>
-<span id="cb16-2"><a href="#cb16-2" aria-hidden="true" tabindex="-1"></a></span>
-<span id="cb16-3"><a href="#cb16-3" aria-hidden="true" tabindex="-1"></a>n <span class="ot">&lt;-</span> <span class="dv">1000</span></span>
-<span id="cb16-4"><a href="#cb16-4" aria-hidden="true" tabindex="-1"></a></span>
-<span id="cb16-5"><a href="#cb16-5" aria-hidden="true" tabindex="-1"></a>outcomes <span class="ot">&lt;-</span> <span class="fu">c</span>(<span class="dv">1</span>, <span class="sc">-</span><span class="dv">17</span>)</span>
-<span id="cb16-6"><a href="#cb16-6" aria-hidden="true" tabindex="-1"></a>probabilities <span class="ot">&lt;-</span> <span class="fu">c</span>(<span class="dv">36</span><span class="sc">/</span><span class="dv">38</span>, <span class="dv">2</span><span class="sc">/</span><span class="dv">38</span>)</span>
-<span id="cb16-7"><a href="#cb16-7" aria-hidden="true" tabindex="-1"></a></span>
-<span id="cb16-8"><a href="#cb16-8" aria-hidden="true" tabindex="-1"></a>simulations <span class="ot">&lt;-</span> <span class="dv">10000</span></span>
-<span id="cb16-9"><a href="#cb16-9" aria-hidden="true" tabindex="-1"></a>S <span class="ot">&lt;-</span> <span class="fu">replicate</span>(simulations, <span class="fu">sum</span>(<span class="fu">sample</span>(outcomes, <span class="at">size =</span> n, <span class="at">replace =</span> <span class="cn">TRUE</span>, <span class="at">prob =</span> probabilities)))</span>
-<span id="cb16-10"><a href="#cb16-10" aria-hidden="true" tabindex="-1"></a></span>
-<span id="cb16-11"><a href="#cb16-11" aria-hidden="true" tabindex="-1"></a><span class="fu">mean</span>(S)</span></code><button title="Copy to Clipboard" class="code-copy-button"><i class="bi"></i></button></pre></div>
+<div class="sourceCode cell-code" id="cb15"><pre class="sourceCode r code-with-copy"><code class="sourceCode r"><span id="cb15-1"><a href="#cb15-1" aria-hidden="true" tabindex="-1"></a><span class="fu">mean</span>(S)</span></code><button title="Copy to Clipboard" class="code-copy-button"><i class="bi"></i></button></pre></div>
 <div class="cell-output cell-output-stdout">
-<pre><code>[1] 51.8356</code></pre>
+<pre><code>[1] 53.7778</code></pre>
 </div>
 </div>
-<p>They are kind of the same but still have a 1.1566 unit difference.</p>
+<p>They are kind of the same but still have difference, we can say it is confirm that approximately.</p>
 <ol start="12" type="1">
 <li>What is the standard error of <span class="math inline">\(S\)</span>? Does the Monte Carlos simulation confirm this?</li>
 </ol>
@@ -423,20 +375,20 @@ E[S] = 1000 \times E[X] \approx 52.632
 SE[S] = \sqrt {1000 \times (4.019)^2} \approx 127.48
 \]</span></p>
 <div class="cell">
-<div class="sourceCode cell-code" id="cb18"><pre class="sourceCode r code-with-copy"><code class="sourceCode r"><span id="cb18-1"><a href="#cb18-1" aria-hidden="true" tabindex="-1"></a><span class="fu">sd</span>(S)</span></code><button title="Copy to Clipboard" class="code-copy-button"><i class="bi"></i></button></pre></div>
+<div class="sourceCode cell-code" id="cb17"><pre class="sourceCode r code-with-copy"><code class="sourceCode r"><span id="cb17-1"><a href="#cb17-1" aria-hidden="true" tabindex="-1"></a><span class="fu">sd</span>(S)</span></code><button title="Copy to Clipboard" class="code-copy-button"><i class="bi"></i></button></pre></div>
 <div class="cell-output cell-output-stdout">
-<pre><code>[1] 125.0485</code></pre>
+<pre><code>[1] 127.3515</code></pre>
 </div>
 </div>
-<p>It not the exactly the same.</p>
+<p>It not the exactly the same, but we can say Monte Carlos simulation approximately confirm this.</p>
 <ol start="13" type="1">
 <li>Use data visualization to convince yourself that the distribution of <span class="math inline">\(S\)</span> is approximately normal. Make a histogram and a QQ-plot of standardized values of <span class="math inline">\(S\)</span>. The QQ-plot should be on the identity line.</li>
 </ol>
 <div class="cell">
-<div class="sourceCode cell-code" id="cb20"><pre class="sourceCode r code-with-copy"><code class="sourceCode r"><span id="cb20-1"><a href="#cb20-1" aria-hidden="true" tabindex="-1"></a>Z <span class="ot">=</span> (S <span class="sc">-</span> <span class="fu">mean</span>(S))<span class="sc">/</span><span class="fu">sd</span>(S)</span>
-<span id="cb20-2"><a href="#cb20-2" aria-hidden="true" tabindex="-1"></a></span>
-<span id="cb20-3"><a href="#cb20-3" aria-hidden="true" tabindex="-1"></a></span>
-<span id="cb20-4"><a href="#cb20-4" aria-hidden="true" tabindex="-1"></a><span class="fu">hist</span>(Z)</span></code><button title="Copy to Clipboard" class="code-copy-button"><i class="bi"></i></button></pre></div>
+<div class="sourceCode cell-code" id="cb19"><pre class="sourceCode r code-with-copy"><code class="sourceCode r"><span id="cb19-1"><a href="#cb19-1" aria-hidden="true" tabindex="-1"></a>Z <span class="ot">=</span> (S <span class="sc">-</span> <span class="fu">mean</span>(S))<span class="sc">/</span><span class="fu">sd</span>(S)</span>
+<span id="cb19-2"><a href="#cb19-2" aria-hidden="true" tabindex="-1"></a></span>
+<span id="cb19-3"><a href="#cb19-3" aria-hidden="true" tabindex="-1"></a></span>
+<span id="cb19-4"><a href="#cb19-4" aria-hidden="true" tabindex="-1"></a><span class="fu">hist</span>(Z)</span></code><button title="Copy to Clipboard" class="code-copy-button"><i class="bi"></i></button></pre></div>
 <div class="cell-output-display">
 <div>
 <figure class="figure">
@@ -444,7 +396,7 @@ SE[S] = \sqrt {1000 \times (4.019)^2} \approx 127.48
 </figure>
 </div>
 </div>
-<div class="sourceCode cell-code" id="cb21"><pre class="sourceCode r code-with-copy"><code class="sourceCode r"><span id="cb21-1"><a href="#cb21-1" aria-hidden="true" tabindex="-1"></a><span class="fu">qqnorm</span>(Z)</span></code><button title="Copy to Clipboard" class="code-copy-button"><i class="bi"></i></button></pre></div>
+<div class="sourceCode cell-code" id="cb20"><pre class="sourceCode r code-with-copy"><code class="sourceCode r"><span id="cb20-1"><a href="#cb20-1" aria-hidden="true" tabindex="-1"></a><span class="fu">qqnorm</span>(Z)</span></code><button title="Copy to Clipboard" class="code-copy-button"><i class="bi"></i></button></pre></div>
 <div class="cell-output-display">
 <div>
 <figure class="figure">
@@ -464,22 +416,22 @@ SE[S] = \sqrt {1000 \times (4.019)^2} \approx 127.48
 P(S &gt; 0) = P\left( \frac{S - E[S]}{SE[S]} &gt; \frac{0 - 52.63}{127.48} \right) = P(Z &gt; -0.413) \approx 1-0.339 \approx 0.659
 \]</span></p>
 <div class="cell">
-<div class="sourceCode cell-code" id="cb22"><pre class="sourceCode r code-with-copy"><code class="sourceCode r"><span id="cb22-1"><a href="#cb22-1" aria-hidden="true" tabindex="-1"></a><span class="fu">set.seed</span>(<span class="dv">2025</span>)</span>
-<span id="cb22-2"><a href="#cb22-2" aria-hidden="true" tabindex="-1"></a></span>
-<span id="cb22-3"><a href="#cb22-3" aria-hidden="true" tabindex="-1"></a>n <span class="ot">&lt;-</span> <span class="dv">1000</span></span>
-<span id="cb22-4"><a href="#cb22-4" aria-hidden="true" tabindex="-1"></a></span>
-<span id="cb22-5"><a href="#cb22-5" aria-hidden="true" tabindex="-1"></a>outcomes <span class="ot">&lt;-</span> <span class="fu">c</span>(<span class="dv">1</span>, <span class="sc">-</span><span class="dv">17</span>)</span>
-<span id="cb22-6"><a href="#cb22-6" aria-hidden="true" tabindex="-1"></a>probabilities <span class="ot">&lt;-</span> <span class="fu">c</span>(<span class="dv">36</span><span class="sc">/</span><span class="dv">38</span>, <span class="dv">2</span><span class="sc">/</span><span class="dv">38</span>)</span>
-<span id="cb22-7"><a href="#cb22-7" aria-hidden="true" tabindex="-1"></a></span>
-<span id="cb22-8"><a href="#cb22-8" aria-hidden="true" tabindex="-1"></a>simulations <span class="ot">&lt;-</span> <span class="dv">10000</span></span>
-<span id="cb22-9"><a href="#cb22-9" aria-hidden="true" tabindex="-1"></a>S <span class="ot">&lt;-</span> <span class="fu">replicate</span>(simulations, <span class="fu">sum</span>(<span class="fu">sample</span>(outcomes, <span class="at">size =</span> n, <span class="at">replace =</span> <span class="cn">TRUE</span>, <span class="at">prob =</span> probabilities)))</span>
-<span id="cb22-10"><a href="#cb22-10" aria-hidden="true" tabindex="-1"></a></span>
-<span id="cb22-11"><a href="#cb22-11" aria-hidden="true" tabindex="-1"></a><span class="fu">mean</span>(S <span class="sc">&gt;</span> <span class="dv">0</span>)</span></code><button title="Copy to Clipboard" class="code-copy-button"><i class="bi"></i></button></pre></div>
+<div class="sourceCode cell-code" id="cb21"><pre class="sourceCode r code-with-copy"><code class="sourceCode r"><span id="cb21-1"><a href="#cb21-1" aria-hidden="true" tabindex="-1"></a><span class="fu">set.seed</span>(<span class="dv">2025</span>)</span>
+<span id="cb21-2"><a href="#cb21-2" aria-hidden="true" tabindex="-1"></a></span>
+<span id="cb21-3"><a href="#cb21-3" aria-hidden="true" tabindex="-1"></a>n <span class="ot">&lt;-</span> <span class="dv">1000</span></span>
+<span id="cb21-4"><a href="#cb21-4" aria-hidden="true" tabindex="-1"></a></span>
+<span id="cb21-5"><a href="#cb21-5" aria-hidden="true" tabindex="-1"></a>outcomes <span class="ot">&lt;-</span> <span class="fu">c</span>(<span class="dv">1</span>, <span class="sc">-</span><span class="dv">17</span>)</span>
+<span id="cb21-6"><a href="#cb21-6" aria-hidden="true" tabindex="-1"></a>probabilities <span class="ot">&lt;-</span> <span class="fu">c</span>(<span class="dv">36</span><span class="sc">/</span><span class="dv">38</span>, <span class="dv">2</span><span class="sc">/</span><span class="dv">38</span>)</span>
+<span id="cb21-7"><a href="#cb21-7" aria-hidden="true" tabindex="-1"></a></span>
+<span id="cb21-8"><a href="#cb21-8" aria-hidden="true" tabindex="-1"></a>simulations <span class="ot">&lt;-</span> <span class="dv">10000</span></span>
+<span id="cb21-9"><a href="#cb21-9" aria-hidden="true" tabindex="-1"></a>S <span class="ot">&lt;-</span> <span class="fu">replicate</span>(simulations, <span class="fu">sum</span>(<span class="fu">sample</span>(outcomes, <span class="at">size =</span> n, <span class="at">replace =</span> <span class="cn">TRUE</span>, <span class="at">prob =</span> probabilities)))</span>
+<span id="cb21-10"><a href="#cb21-10" aria-hidden="true" tabindex="-1"></a></span>
+<span id="cb21-11"><a href="#cb21-11" aria-hidden="true" tabindex="-1"></a><span class="fu">mean</span>(S <span class="sc">&gt;</span> <span class="dv">0</span>)</span></code><button title="Copy to Clipboard" class="code-copy-button"><i class="bi"></i></button></pre></div>
 <div class="cell-output cell-output-stdout">
 <pre><code>[1] 0.6662</code></pre>
 </div>
 </div>
-<p>They kind of the same, but not exactly</p>
+<p>They kind of agree the Monte Carlo simulation that they are the same, but not exactly.</p>
 <ol start="16" type="1">
 <li>How many people <span class="math inline">\(n\)</span> must bet on green for the Casino to reduce the probability of losing money to 1%. Check your answer with a Monte Carlo simulation.</li>
 </ol>
@@ -496,25 +448,23 @@ P(S &lt; 0) = 1\% = P(Z &lt; -2.33) = 0.01
 \sqrt{n} = \frac{2.33 \times 4.03}{0.05263}
 \]</span></p>
 <p><span class="math display">\[
-n = \left( \frac{9.3899}{0.05263} \right)^2 \approx 31815
+n \approx 31831
 \]</span></p>
 <div class="cell">
-<div class="sourceCode cell-code" id="cb24"><pre class="sourceCode r code-with-copy"><code class="sourceCode r"><span id="cb24-1"><a href="#cb24-1" aria-hidden="true" tabindex="-1"></a><span class="fu">set.seed</span>(<span class="dv">1998</span>)</span>
-<span id="cb24-2"><a href="#cb24-2" aria-hidden="true" tabindex="-1"></a></span>
-<span id="cb24-3"><a href="#cb24-3" aria-hidden="true" tabindex="-1"></a>n <span class="ot">&lt;-</span> <span class="dv">31815</span></span>
-<span id="cb24-4"><a href="#cb24-4" aria-hidden="true" tabindex="-1"></a>simulations <span class="ot">&lt;-</span> <span class="dv">10000</span></span>
-<span id="cb24-5"><a href="#cb24-5" aria-hidden="true" tabindex="-1"></a></span>
-<span id="cb24-6"><a href="#cb24-6" aria-hidden="true" tabindex="-1"></a>outcomes <span class="ot">&lt;-</span> <span class="fu">c</span>(<span class="dv">1</span>, <span class="sc">-</span><span class="dv">17</span>)</span>
-<span id="cb24-7"><a href="#cb24-7" aria-hidden="true" tabindex="-1"></a>prob <span class="ot">&lt;-</span> <span class="fu">c</span>(<span class="dv">36</span><span class="sc">/</span><span class="dv">38</span>, <span class="dv">2</span><span class="sc">/</span><span class="dv">38</span>)</span>
-<span id="cb24-8"><a href="#cb24-8" aria-hidden="true" tabindex="-1"></a></span>
-<span id="cb24-9"><a href="#cb24-9" aria-hidden="true" tabindex="-1"></a>S <span class="ot">&lt;-</span> <span class="fu">replicate</span>(simulations, <span class="fu">sum</span>(<span class="fu">sample</span>(outcomes, <span class="at">size =</span> n, <span class="at">replace =</span> <span class="cn">TRUE</span>, <span class="at">prob =</span> prob)))</span>
-<span id="cb24-10"><a href="#cb24-10" aria-hidden="true" tabindex="-1"></a></span>
-<span id="cb24-11"><a href="#cb24-11" aria-hidden="true" tabindex="-1"></a><span class="fu">mean</span>(S <span class="sc">&lt;</span> <span class="dv">0</span>)</span></code><button title="Copy to Clipboard" class="code-copy-button"><i class="bi"></i></button></pre></div>
+<div class="sourceCode cell-code" id="cb23"><pre class="sourceCode r code-with-copy"><code class="sourceCode r"><span id="cb23-1"><a href="#cb23-1" aria-hidden="true" tabindex="-1"></a>n <span class="ot">&lt;-</span> <span class="dv">31831</span></span>
+<span id="cb23-2"><a href="#cb23-2" aria-hidden="true" tabindex="-1"></a>simulations <span class="ot">&lt;-</span> <span class="dv">10000</span></span>
+<span id="cb23-3"><a href="#cb23-3" aria-hidden="true" tabindex="-1"></a></span>
+<span id="cb23-4"><a href="#cb23-4" aria-hidden="true" tabindex="-1"></a>outcomes <span class="ot">&lt;-</span> <span class="fu">c</span>(<span class="dv">1</span>, <span class="sc">-</span><span class="dv">17</span>)</span>
+<span id="cb23-5"><a href="#cb23-5" aria-hidden="true" tabindex="-1"></a>prob <span class="ot">&lt;-</span> <span class="fu">c</span>(<span class="dv">36</span><span class="sc">/</span><span class="dv">38</span>, <span class="dv">2</span><span class="sc">/</span><span class="dv">38</span>)</span>
+<span id="cb23-6"><a href="#cb23-6" aria-hidden="true" tabindex="-1"></a></span>
+<span id="cb23-7"><a href="#cb23-7" aria-hidden="true" tabindex="-1"></a>S <span class="ot">&lt;-</span> <span class="fu">replicate</span>(simulations, <span class="fu">sum</span>(<span class="fu">sample</span>(outcomes, <span class="at">size =</span> n, <span class="at">replace =</span> <span class="cn">TRUE</span>, <span class="at">prob =</span> prob)))</span>
+<span id="cb23-8"><a href="#cb23-8" aria-hidden="true" tabindex="-1"></a></span>
+<span id="cb23-9"><a href="#cb23-9" aria-hidden="true" tabindex="-1"></a><span class="fu">mean</span>(S <span class="sc">&lt;</span> <span class="dv">0</span>)</span></code><button title="Copy to Clipboard" class="code-copy-button"><i class="bi"></i></button></pre></div>
 <div class="cell-output cell-output-stdout">
-<pre><code>[1] 0.0098</code></pre>
+<pre><code>[1] 0.0102</code></pre>
 </div>
 </div>
-<p>0.3338 &gt; 0.1</p>
+<p>31831 people must bet on green for the Casino to reduce the probability of losing money to 1%.</p>
 
 </main>
 <!-- /main column -->
